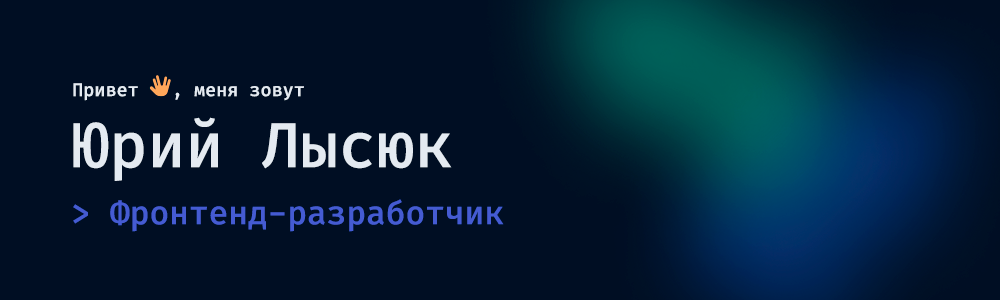
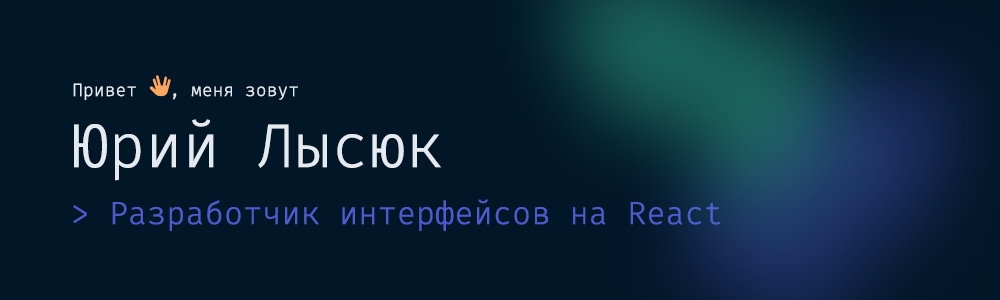
обновлена информация

diff --git a/README.md b/README.md
@@ -1,9 +1,8 @@
-![Привет, Я Юрий Лысюк — Фронтенд-разработчик](header-ru.png 'Юрий Лысюк — Фронтенд-разработчик')
+![Привет) Я, Юрий Лысюк — Разработчик интерфесов](header-ru.png 'Юрий Лысюк — Разработчик интерфесов')
 
-- 💪 В данный момент прокачиваю алгоритмы.
-- 🌱 Также изучаю JavaScript, TypeScript, React и его экосистему.
+- 💪 В данный момент изучаю React и его экосистему.
 - 🔎 Связаться со мной можно через [Telegram](https://t.me/YuriyLysyuk)
-- ⚡ Даже если вас съели, у вас есть два варианта выхода :)
+- ⚡ Забавный факт: даже если вас съели, у вас есть два варианта выхода :)
 
-<a href="https://leetcode.com/lysyuk-y/" target="_blank"><img src="https://img.shields.io/badge/dynamic/json?style=flat-square&labelColor=black&color=%23ffa116&label=Solved&query=solvedOverTotal&url=https%3A%2F%2Fbadge.xyli.tech/%2Fapi%2Fusers%2Flysyuk-y&logo=leetcode&logoColor=yellow" alt="Yuriy Lysyuk's LeetCode stats"></a>
+<a href="https://leetcode.com/u/lysyuk-y/" target="_blank"><img src="https://img.shields.io/badge/dynamic/json?style=flat-square&labelColor=black&color=%23ffa116&label=Solved&query=solved&url=https%3A%2F%2Fleetcode-badge.vercel.app%2Fapi%2Fusers%2Flysyuk-y&logo=leetcode&logoColor=yellow" alt="Yuriy Lysyuk's LeetCode stats"></a>
 <a href="https://www.codewars.com/users/YuriyLysyuk" target="_blank"><img src="https://www.codewars.com/users/YuriyLysyuk/badges/micro" alt="Yuriy Lysyuk's Codewars stats"></a>
